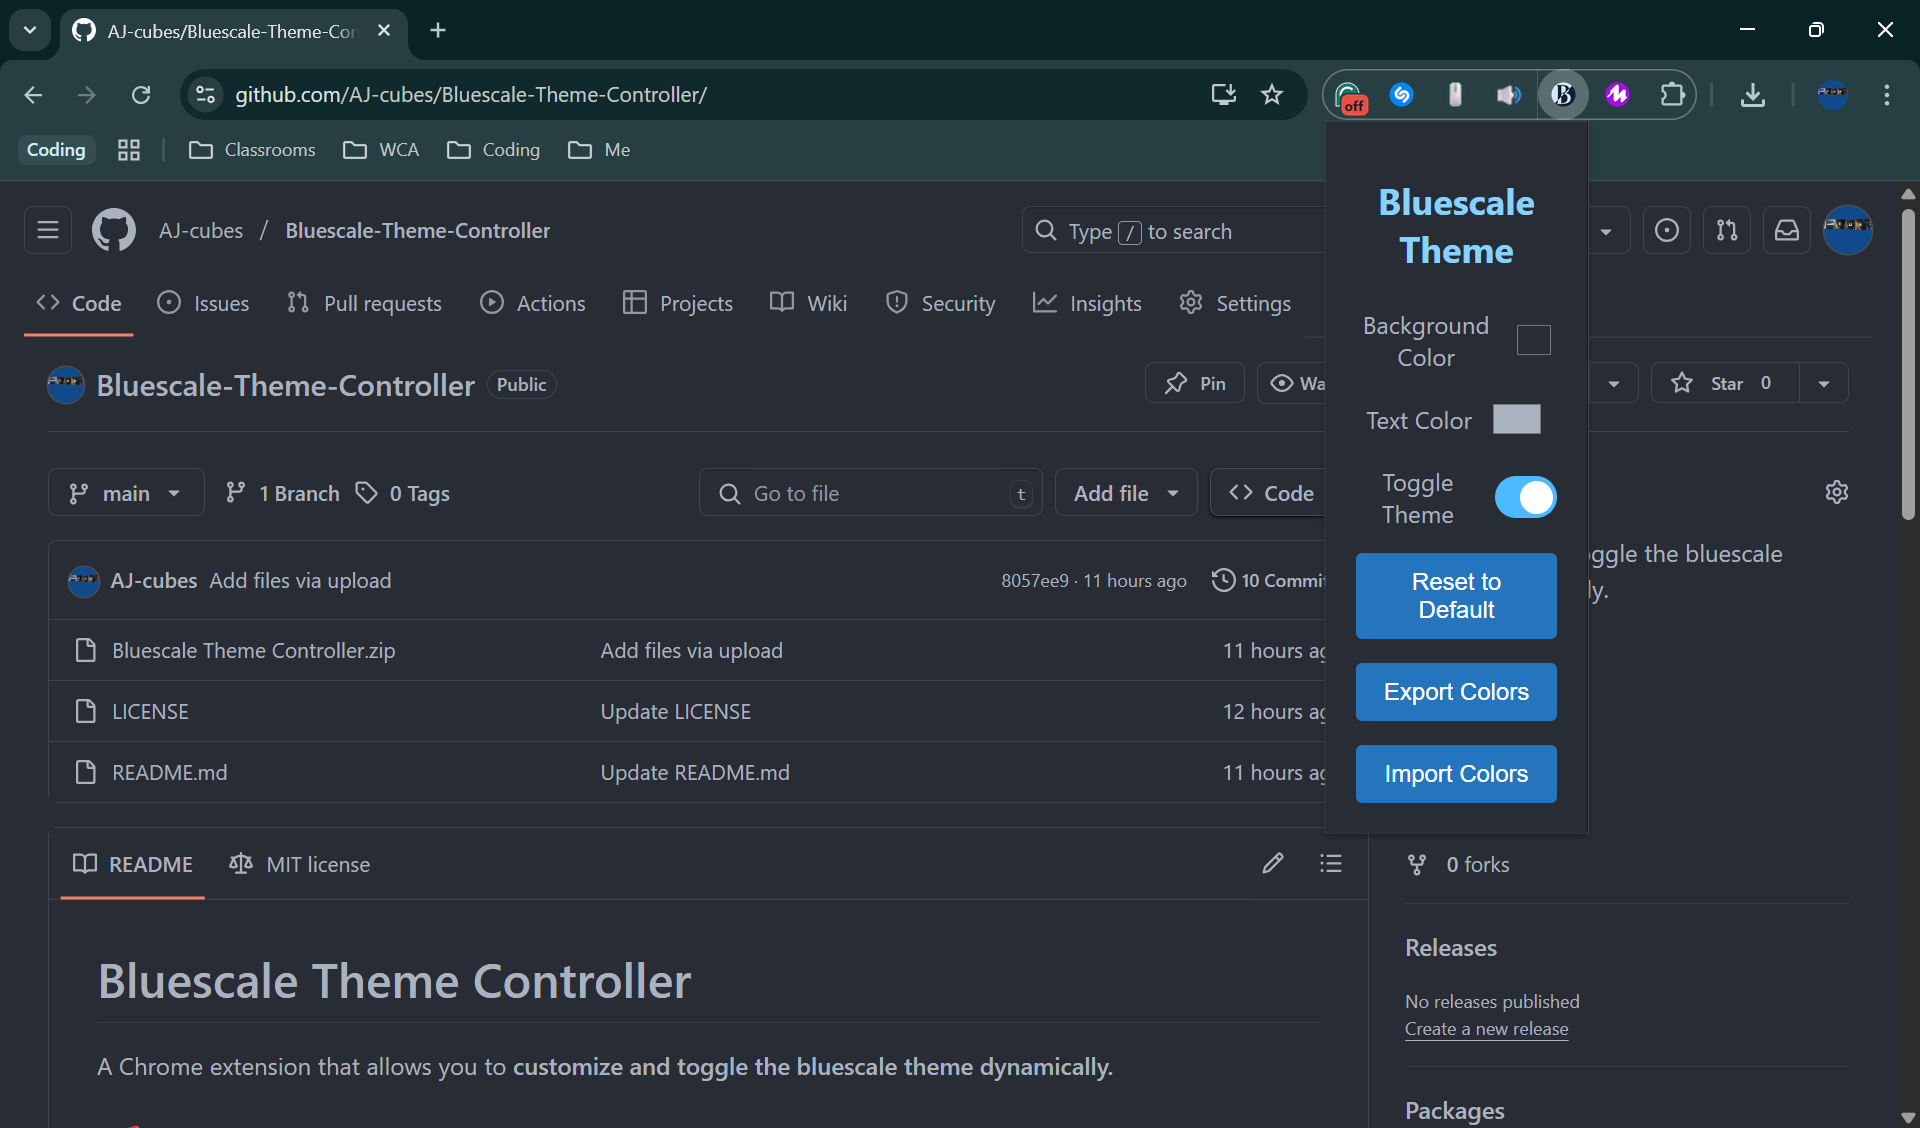
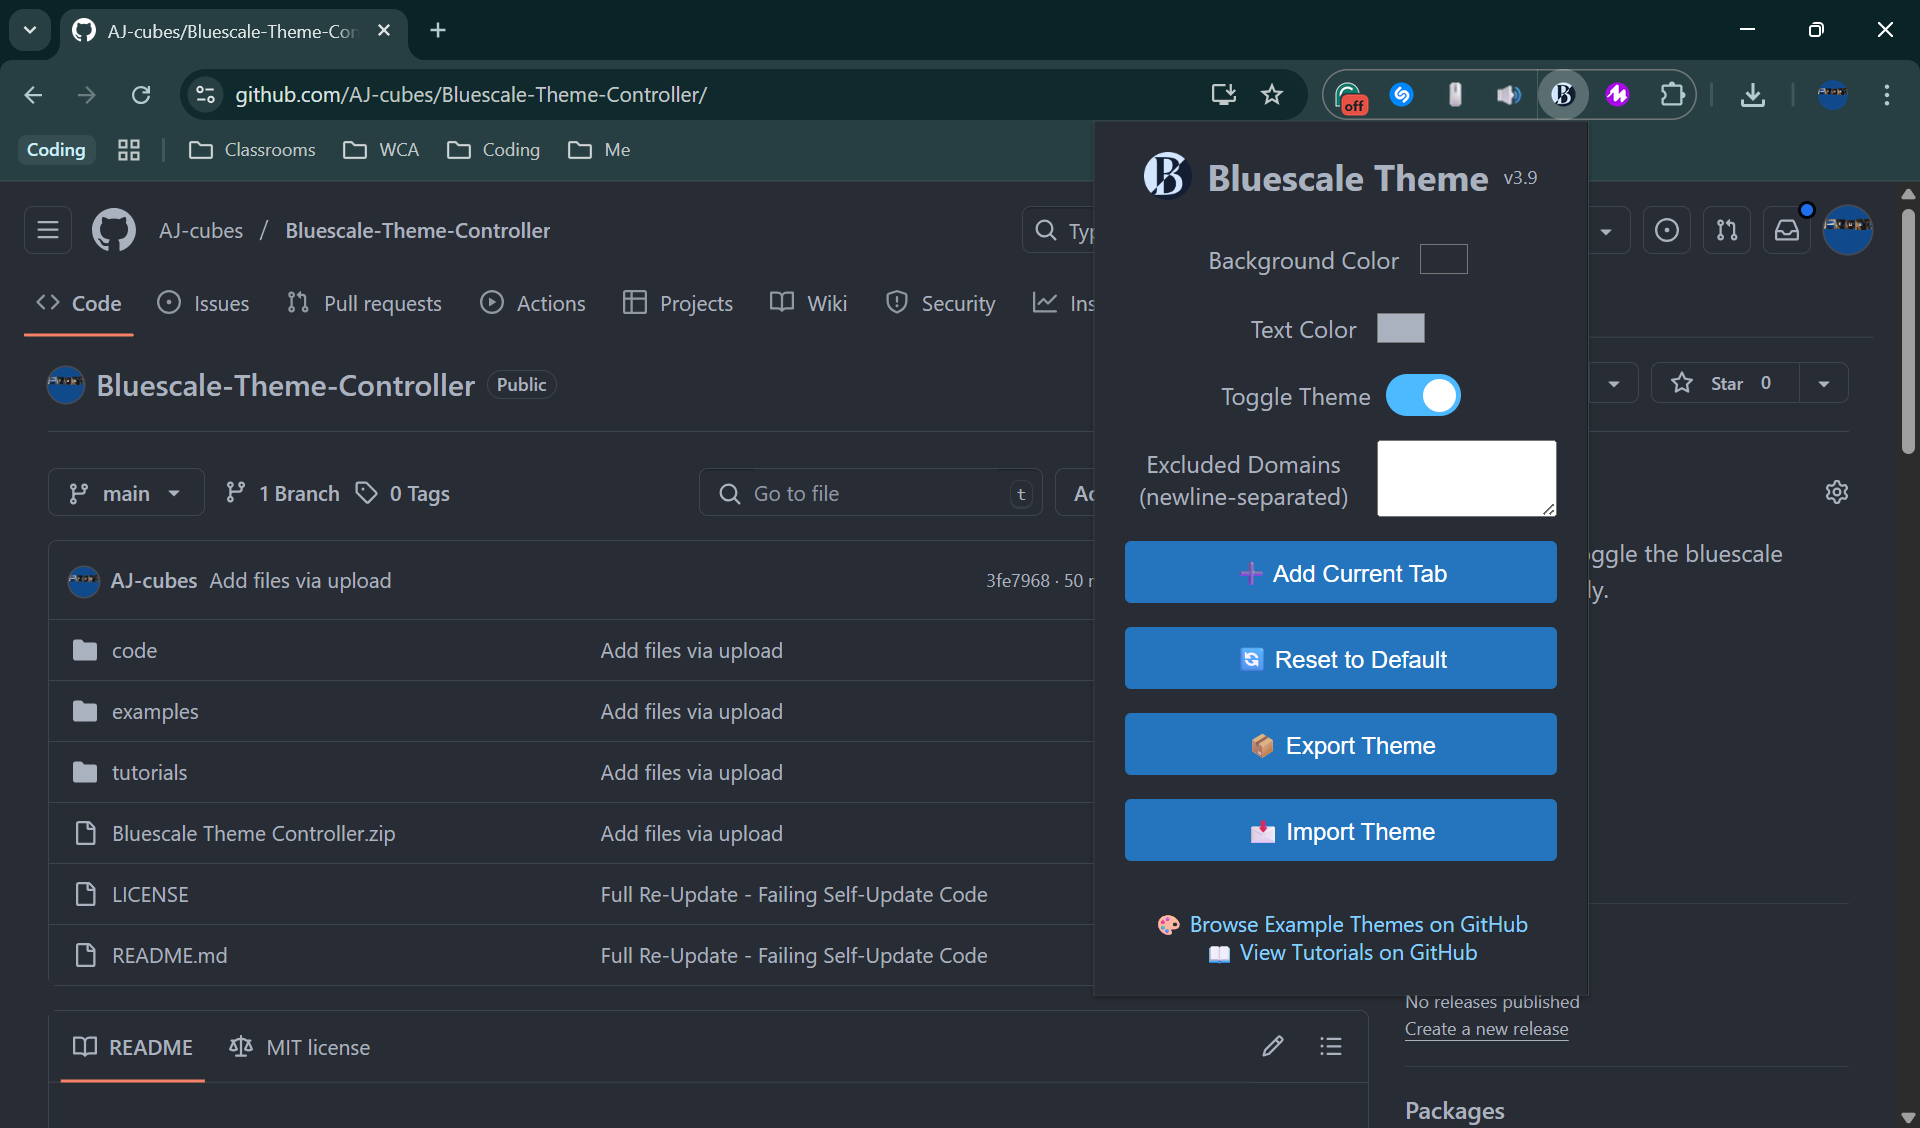
Add files via upload

diff --git a/code/popup.js b/code/popup.js
@@ -13,18 +13,23 @@ document.addEventListener("DOMContentLoaded", () => {
   const fallbackText = "#d2e6ff";
 
   chrome.storage.sync.get(["bgColor", "textColor", "themeEnabled", "excludeDomains"], (data) => {
-    bgPicker.value = data.bgColor || fallbackBg;
-    textPicker.value = data.textColor || fallbackText;
-    themeToggle.checked = data.themeEnabled !== false;
+    const bgColor = data.bgColor || fallbackBg;
+    const textColor = data.textColor || fallbackText;
+    const themeEnabled = data.themeEnabled !== false;
+
+    bgPicker.value = bgColor;
+    textPicker.value = textColor;
+    themeToggle.checked = themeEnabled;
     excludeDomainsInput.value = data.excludeDomains || "";
 
-    updatePopupTheme(bgPicker.value, textPicker.value, themeToggle.checked);
-    applyColorsToAllTabs(bgPicker.value, textPicker.value, themeToggle.checked);
+    updatePopupTheme(bgColor, textColor, themeEnabled);
+    applyColorsToAllTabs(bgColor, textColor, themeEnabled);
+    updateCurrTabButton();
   });
 
   function applyColorsToAllTabs(bg, text, themeEnabled) {
     chrome.storage.sync.get(["excludeDomains"], (data) => {
-      const excludedSites = data.excludeDomains ? data.excludeDomains.split("\n") : [];
+      const excludedSites = data.excludeDomains ? data.excludeDomains.split("\n").filter(Boolean) : [];
 
       chrome.tabs.query({}, (tabs) => {
         tabs.forEach((tab) => {
@@ -52,65 +57,35 @@ document.addEventListener("DOMContentLoaded", () => {
         const currentDomain = new URL(response.url).hostname;
 
         chrome.storage.sync.get(["excludeDomains"], (data) => {
-          const excludedSites = data.excludeDomains ? data.excludeDomains.split("\n") : [];
+          const excludedSites = data.excludeDomains ? data.excludeDomains.split("\n").filter(Boolean) : [];
           const isExcluded = excludedSites.includes(currentDomain);
 
           if (!isExcluded) {
             document.body.style.backgroundColor = themeEnabled ? bg : fallbackBg;
             document.body.style.color = themeEnabled ? text : fallbackText;
+
+            document.querySelector(".header h1").style.color = themeEnabled ? text : fallbackText;
+            document.querySelector(".header .version").style.color = themeEnabled ? text : fallbackText;
           }
         });
       }
     });
   }
 
-  bgPicker.addEventListener("input", () => {
-    chrome.storage.sync.set({ bgColor: bgPicker.value });
-    updatePopupTheme(bgPicker.value, textPicker.value, themeToggle.checked);
-    applyColorsToAllTabs(bgPicker.value, textPicker.value, themeToggle.checked);
-  });
+  function updateCurrTabButton() {
+    chrome.tabs.query({ active: true, currentWindow: true }, (tabs) => {
+      if (!tabs.length || tabs[0].url.startsWith("chrome://")) {
+        currTab.textContent = "➕ Add Current Tab";
+        return;
+      }
 
-  textPicker.addEventListener("input", () => {
-    chrome.storage.sync.set({ textColor: textPicker.value });
-    updatePopupTheme(bgPicker.value, textPicker.value, themeToggle.checked);
-    applyColorsToAllTabs(bgPicker.value, textPicker.value, themeToggle.checked);
-  });
-
-  themeToggle.addEventListener("change", () => {
-    chrome.storage.sync.set({ themeEnabled: themeToggle.checked });
-    updatePopupTheme(bgPicker.value, textPicker.value, themeToggle.checked);
-    applyColorsToAllTabs(bgPicker.value, textPicker.value, themeToggle.checked);
-  });
-
-  excludeDomainsInput.addEventListener("input", () => {
-    chrome.storage.sync.get(["excludeDomains"], (prevData) => {
-      const previousExclusions = prevData.excludeDomains ? prevData.excludeDomains.split("\n").filter(Boolean) : [];
-
-      chrome.storage.sync.set({ excludeDomains: excludeDomainsInput.value }, () => {
-        const newExclusions = excludeDomainsInput.value.split("\n").filter(Boolean);
-
-        chrome.tabs.query({}, (tabs) => {
-          tabs.forEach((tab) => {
-            const currentDomain = new URL(tab.url).hostname;
-            const wasExcluded = previousExclusions.includes(currentDomain);
-            const isExcludedNow = newExclusions.includes(currentDomain);
-
-            chrome.scripting.executeScript({
-              target: { tabId: tab.id },
-              func: (wasExcluded, isExcludedNow) => {
-                if (!wasExcluded && isExcludedNow) {
-                  document.documentElement.classList.remove("blue-mode");
-                } else if (wasExcluded && !isExcludedNow) {
-                  document.documentElement.classList.add("blue-mode");
-                }
-              },
-              args: [wasExcluded, isExcludedNow]
-            }).catch(err => console.warn("Failed to apply exclusions:", err));
-          });
-        });
+      const currentDomain = new URL(tabs[0].url).hostname;
+      chrome.storage.sync.get(["excludeDomains"], (data) => {
+        const excludedSites = data.excludeDomains ? data.excludeDomains.split("\n").filter(Boolean) : [];
+        currTab.textContent = excludedSites.includes(currentDomain) ? "❌ Remove Current Tab" : "➕ Add Current Tab";
       });
     });
-  });
+  }
 
   currTab.addEventListener("click", () => {
     chrome.tabs.query({ active: true, currentWindow: true }, (tabs) => {
@@ -125,7 +100,22 @@ document.addEventListener("DOMContentLoaded", () => {
       chrome.storage.sync.get(["excludeDomains"], (data) => {
         let excludedSites = data.excludeDomains ? data.excludeDomains.split("\n").filter(Boolean) : [];
 
-        if (!excludedSites.includes(currentDomain)) {
+        if (excludedSites.includes(currentDomain)) {
+          excludedSites = excludedSites.filter(domain => domain !== currentDomain);
+          excludeDomainsInput.value = excludedSites.join("\n");
+
+          chrome.storage.sync.set({ excludeDomains: excludeDomainsInput.value }, () => {
+            chrome.scripting.executeScript({
+              target: { tabId: currentTab.id },
+              func: (currentDomain) => {
+                document.documentElement.classList.add("blue-mode");
+              },
+              args: [currentDomain]
+            }).catch(err => console.warn("Failed to re-enable Blue Mode:", err));
+
+            currTab.textContent = "➕ Add Current Tab";
+          });
+        } else {
           excludedSites.push(currentDomain);
           excludeDomainsInput.value = excludedSites.join("\n");
 
@@ -136,49 +126,36 @@ document.addEventListener("DOMContentLoaded", () => {
                 document.documentElement.classList.remove("blue-mode");
               },
               args: [currentDomain]
-            }).catch(err => console.warn("Failed to apply exclusions after adding tab:", err));
+            }).catch(err => console.warn("Failed to apply exclusions:", err));
+
+            currTab.textContent = "❌ Remove Current Tab";
           });
         }
       });
     });
   });
 
-  resetBtn.addEventListener("click", () => {
-    chrome.storage.sync.set({ bgColor: fallbackBg, textColor: fallbackText });
-    bgPicker.value = fallbackBg;
-    textPicker.value = fallbackText;
-    updatePopupTheme(fallbackBg, fallbackText, themeToggle.checked);
-    applyColorsToAllTabs(fallbackBg, fallbackText, themeToggle.checked);
+  themeToggle.addEventListener("change", () => {
+    const newThemeEnabled = themeToggle.checked;
+    chrome.storage.sync.set({ themeEnabled: newThemeEnabled }, () => {
+      updatePopupTheme(bgPicker.value, textPicker.value, newThemeEnabled);
+      applyColorsToAllTabs(bgPicker.value, textPicker.value, newThemeEnabled);
+    });
   });
 
-  exportBtn.addEventListener("click", () => {
-    const bstcFormat = `${bgPicker.value}$${textPicker.value}`;
-    const blob = new Blob([bstcFormat], { type: "text/plain" });
-    const a = document.createElement("a");
-    a.href = URL.createObjectURL(blob);
-    a.download = "Bluescale-Settings.bstc";
-    a.click();
+  bgPicker.addEventListener("input", () => {
+    const newBgColor = bgPicker.value;
+    chrome.storage.sync.set({ bgColor: newBgColor }, () => {
+      updatePopupTheme(newBgColor, textPicker.value, themeToggle.checked);
+      applyColorsToAllTabs(newBgColor, textPicker.value, themeToggle.checked);
+    });
   });
 
-  importBtn.addEventListener("click", () => {
-    importFile.click();
-  });
-
-  importFile.setAttribute("title", "Bluescale Theme Controller file *.bstc");
-
-  importFile.addEventListener("change", (event) => {
-    const file = event.target.files[0];
-    const reader = new FileReader();
-    reader.onload = function (e) {
-      let [background, text] = e.target.result.split("$");
-      background = background.trim();
-      text = text.trim();
-      chrome.storage.sync.set({ bgColor: background, textColor: text });
-      bgPicker.value = background;
-      textPicker.value = text;
-      updatePopupTheme(background, text, themeToggle.checked);
-      applyColorsToAllTabs(background, text, themeToggle.checked);
-    };
-    reader.readAsText(file);
+  textPicker.addEventListener("input", () => {
+    const newTextColor = textPicker.value;
+    chrome.storage.sync.set({ textColor: newTextColor }, () => {
+      updatePopupTheme(bgPicker.value, newTextColor, themeToggle.checked);
+      applyColorsToAllTabs(bgPicker.value, newTextColor, themeToggle.checked);
+    });
   });
 });

diff --git a/code/popup.html b/code/popup.html
@@ -168,9 +168,9 @@
   </div>
 
   <button id="currTab">Add Current Tab</button>
-  <button id="reset">Reset to Default</button>
-  <button id="exportBtn">Export Colors</button>
-  <button id="importBtn">Import Colors</button>
+  <button id="reset">🔄 Reset to Default</button>
+  <button id="exportBtn">📦 Export Theme</button>
+  <button id="importBtn">📩 Import Theme</button>
   <input type="file" id="importFile" accept=".bstc" title="Bluescale Theme Controller file *.bstc" />
 
   <div class="examples-link">
